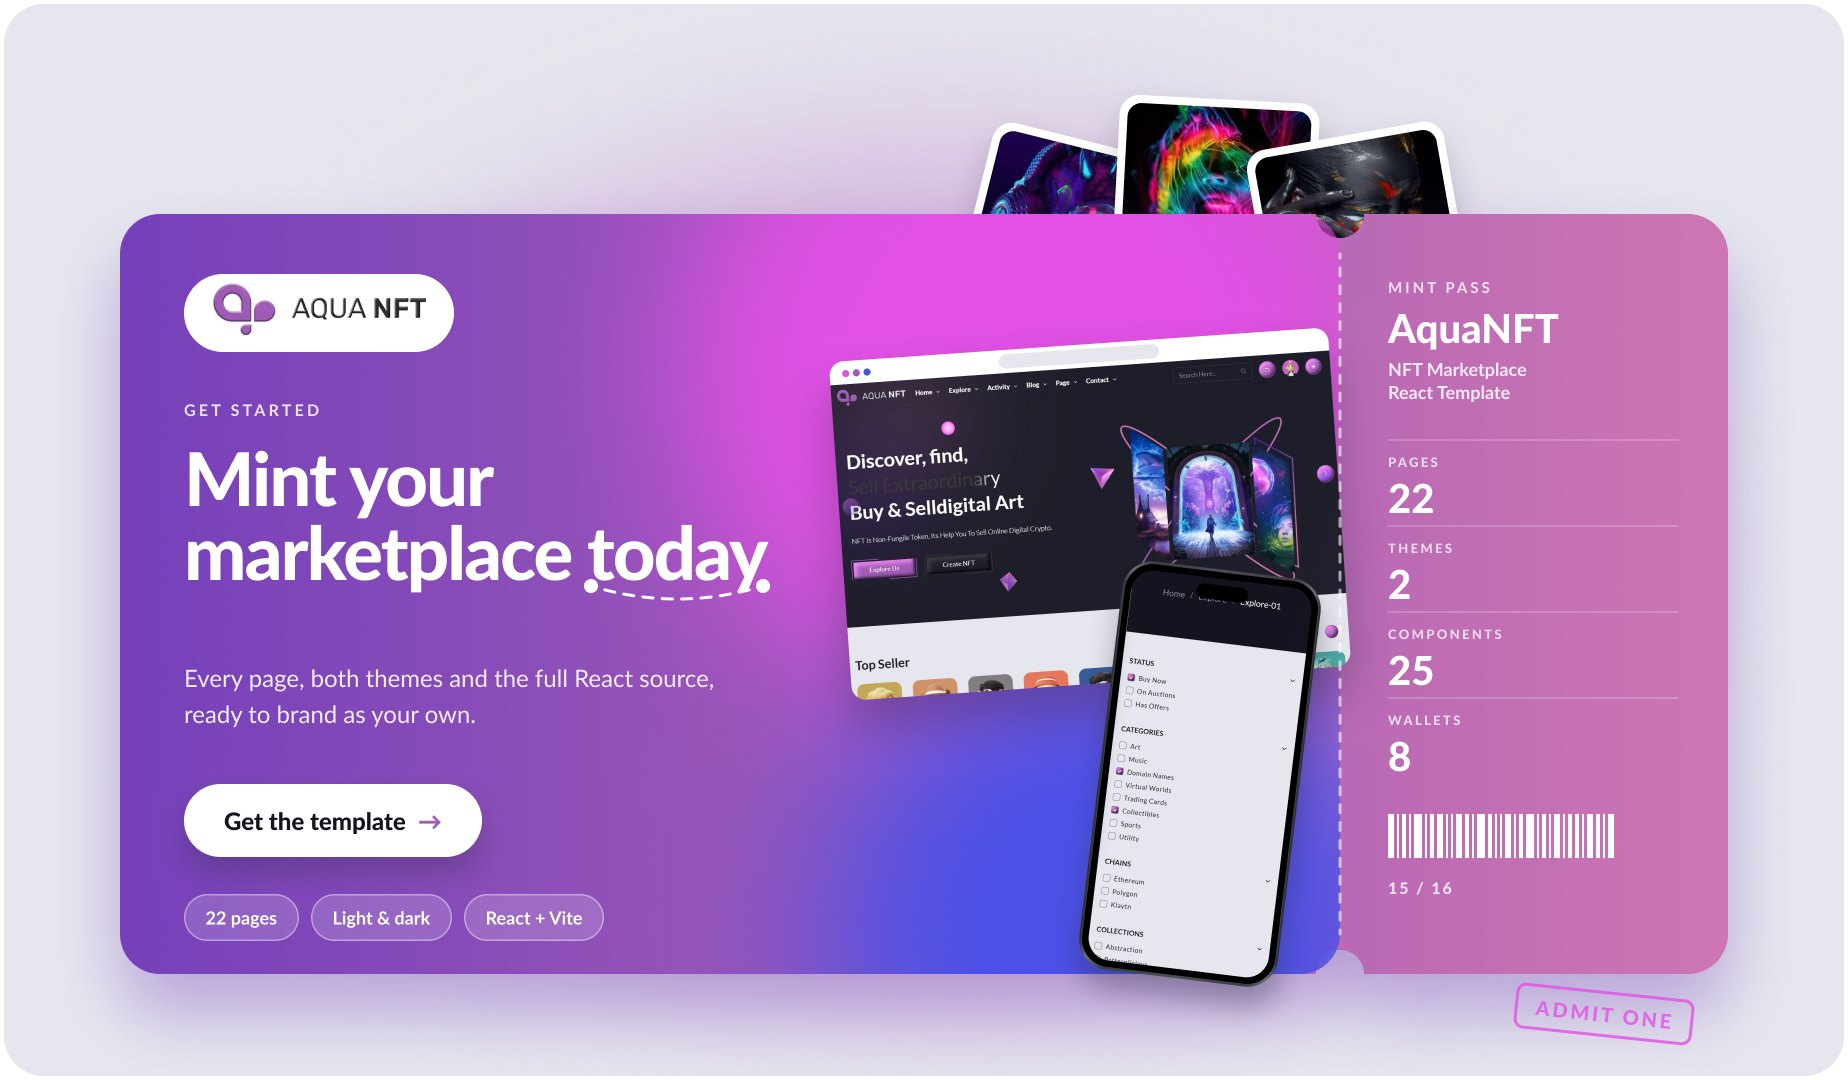
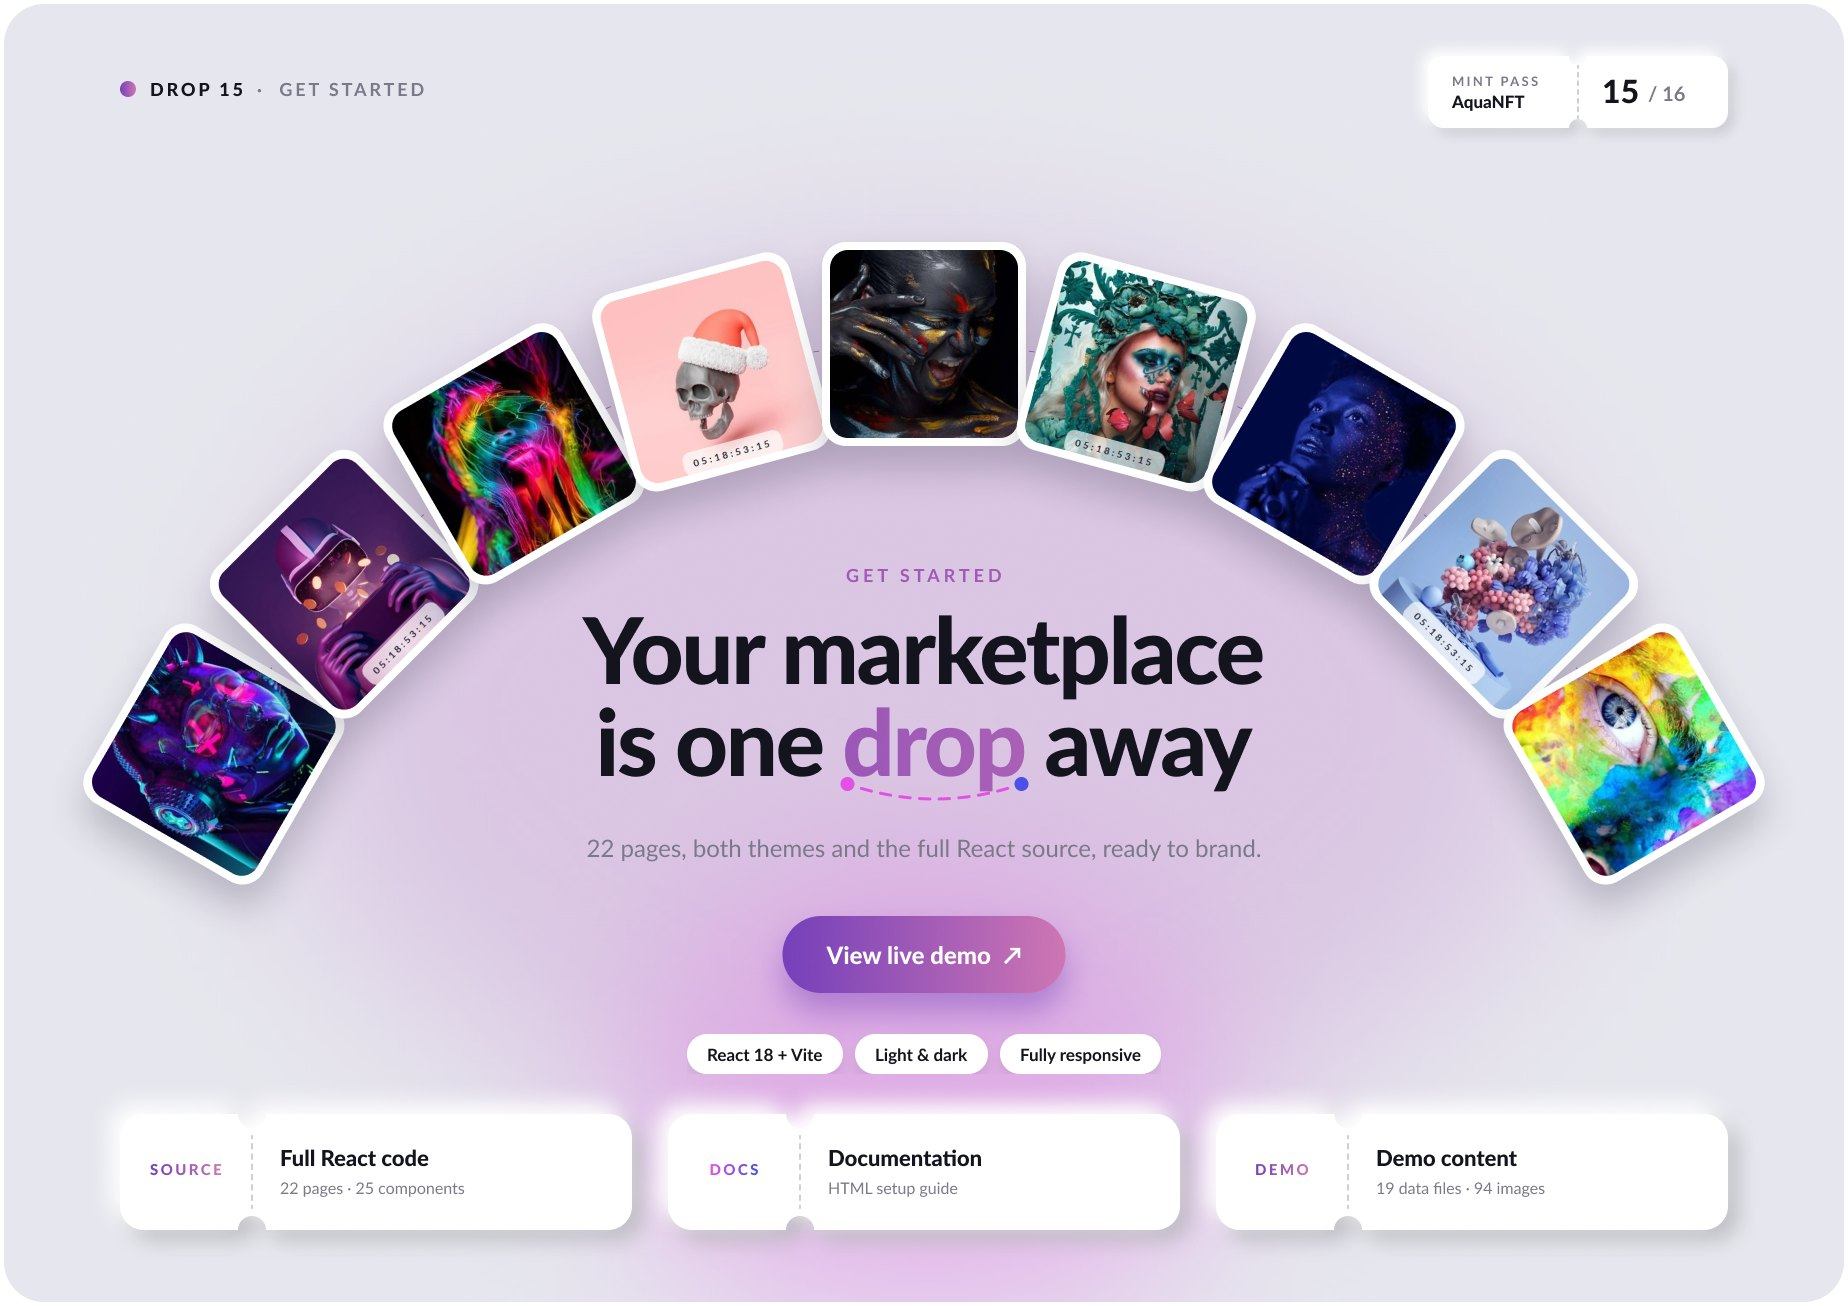
AquaNFT presentation: new Get Started slide + live demo link (v1.0.1)

diff --git a/README.md b/README.md
@@ -18,6 +18,6 @@ Served through jsDelivr:
 | musinto | Musinto music streaming app UI kit | musinto-v1.0.3 |
 | mieo | Mieo kids language-learning app UI kit (Flutter + Figma) | mieo-v1.0.1 |
 | efreshhh | eFreshhh grocery & food delivery HTML template | efreshhh-v1.0.3 |
-| aquanft | AquaNFT NFT marketplace React template | aquanft-v1.0.0 |
+| aquanft | AquaNFT NFT marketplace React template | aquanft-v1.0.1 |
 
 No template code lives here.
